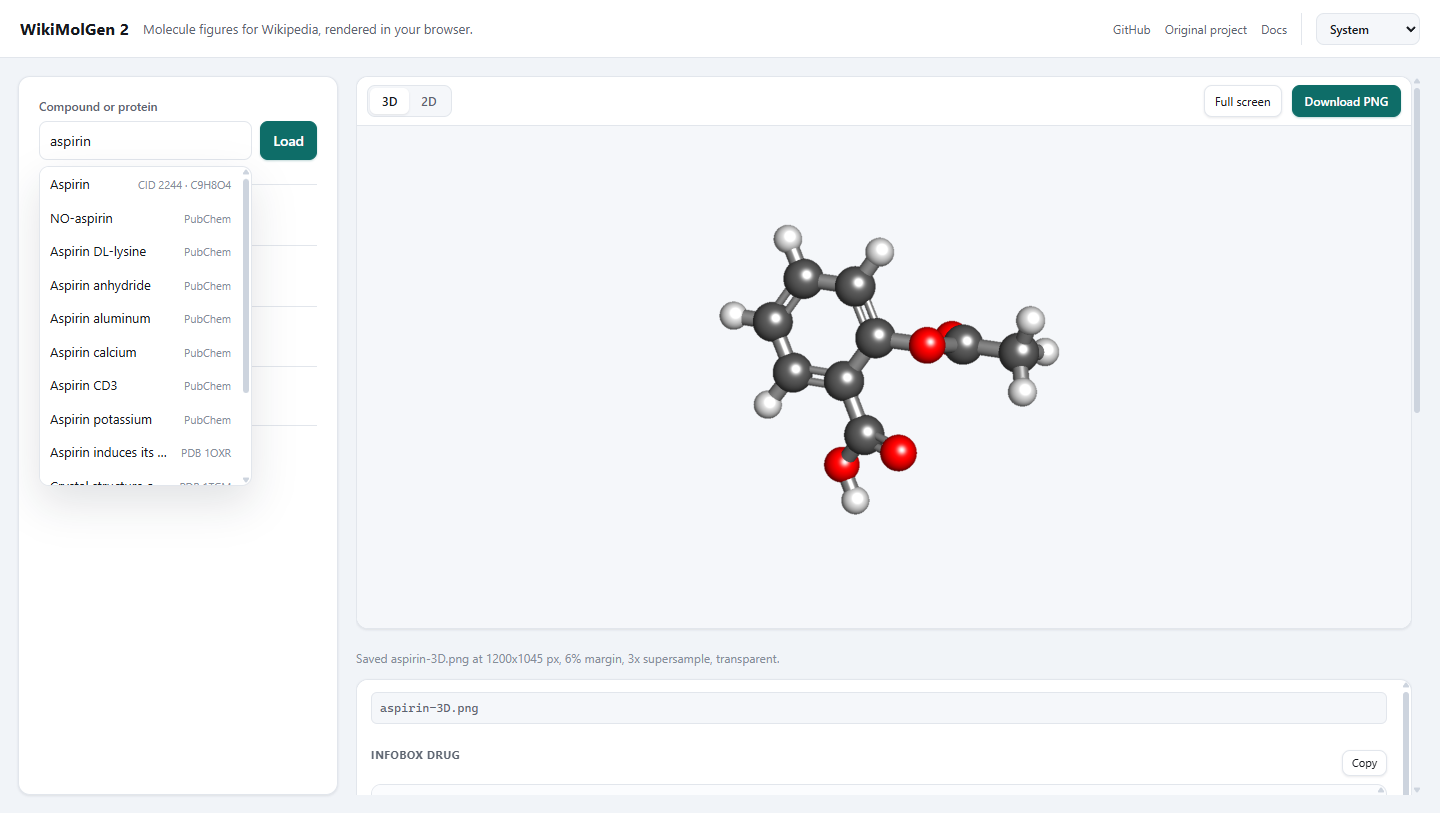
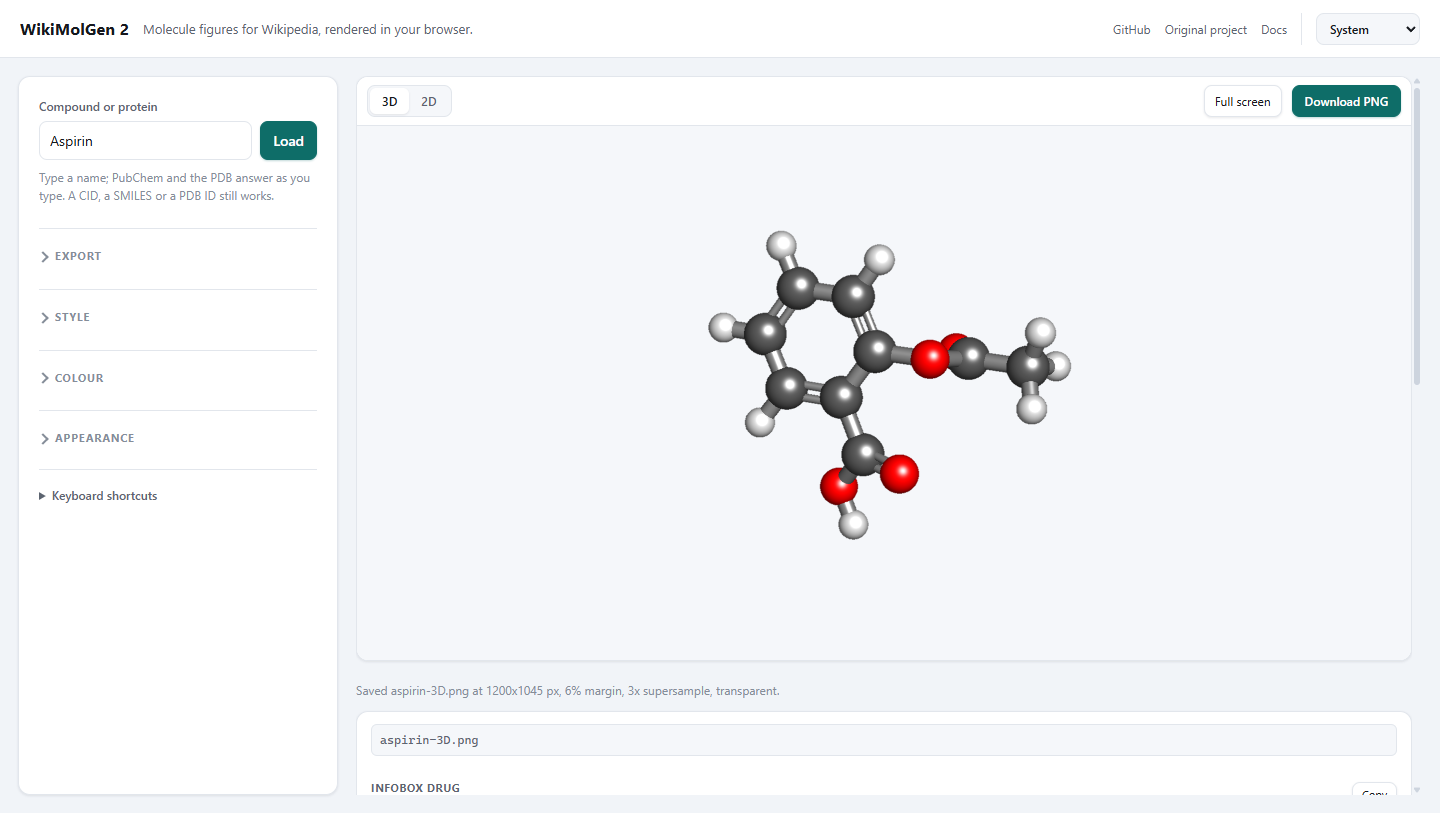
Raise the figure stage a little

diff --git a/web/src/styles.css b/web/src/styles.css
@@ -230,7 +230,7 @@ body {
    the page scrolls rather than hiding the Commons text inside a short panel. */
 .workspace .stage {
   flex: none;
-  height: min(68vh, 640px);
+  height: min(72vh, 680px);
   min-height: 320px;
 }
 
